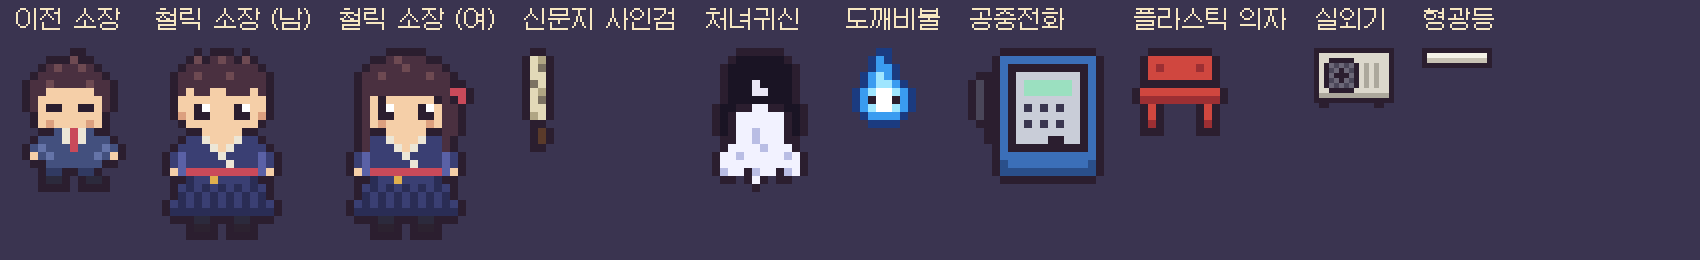
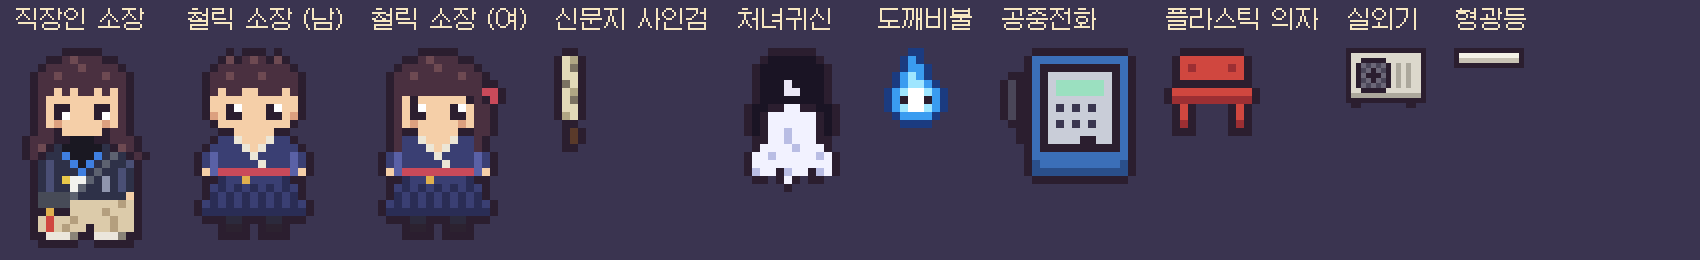
Director concept v3: office worker by day, exorcism office by night; art lab sprite and design docs
Claude-Session: https://claude.ai/code/session_014BYZNRo4yeD9gUjFc8b4p2

Changed region(s): [[0.0, 0.1846, 0.3429, 0.9538], [0.4053, 0.1846, 0.9041, 0.7385], [0.0, 0.0308, 0.9041, 0.1231]]

diff --git a/tools/artlab/lab.html b/tools/artlab/lab.html
@@ -17,7 +17,7 @@
 import { PAL, SPRITES, TILE } from './sprites.js';
 
 const W = 192, H = 112, SCALE = 5;
-const WHO = new URLSearchParams(location.search).get('who') || 'directorM';
+const WHO = new URLSearchParams(location.search).get('who') || 'directorW';
 const hex = (h) => [parseInt(h.slice(1, 3), 16), parseInt(h.slice(3, 5), 16), parseInt(h.slice(5, 7), 16)];
 
 function blit(ctx, name, x, y, flip = false) {
@@ -177,8 +177,8 @@ function scene() {
 
 function sheet() {
   const S = 8, pad = 14;
-  const list = ['director', 'directorM', 'directorF', 'sword', 'cheonyeo', 'wisp', 'payphone', 'chair', 'aircon', 'lamp'];
-  const labels = { director: '이전 소장', directorM: '철릭 소장 (남)', directorF: '철릭 소장 (여)', sword: '신문지 사인검', cheonyeo: '처녀귀신', wisp: '도깨비불', payphone: '공중전화', chair: '플라스틱 의자', aircon: '실외기', lamp: '형광등' };
+  const list = ['directorW', 'directorM', 'directorF', 'sword', 'cheonyeo', 'wisp', 'payphone', 'chair', 'aircon', 'lamp'];
+  const labels = { directorW: '직장인 소장', director: '이전 소장', directorM: '철릭 소장 (남)', directorF: '철릭 소장 (여)', sword: '신문지 사인검', cheonyeo: '처녀귀신', wisp: '도깨비불', payphone: '공중전화', chair: '플라스틱 의자', aircon: '실외기', lamp: '형광등' };
   const out = document.getElementById('sheet');
   out.width = 1700; out.height = 260;
   const o = out.getContext('2d');

diff --git a/tools/artlab/sprites.js b/tools/artlab/sprites.js
@@ -19,6 +19,10 @@ export const PAL = {
   Q: '#f4f1e6', q: '#c8c2b4',
   // director v2: cheollik (철릭) coat
   I: '#3a3f73', i: '#2a2d55', j: '#5a61a6', G: '#e0b04e', Y: '#2c2230',
+  // director v3: office worker by day (ink jacket, turtleneck, beige wide slacks, ID badge, crossbag)
+  J: '#2e3148', k: '#4a4f75', t: '#1a1822', y: '#8f95ad',
+  1: '#3f7fe0', 2: '#f2f2ee', 3: '#e8c84a', 4: '#5d6270', 5: '#474b57', 6: '#d0473f',
+  8: '#dccbaa', 9: '#b49f7e', a: '#ebe6dc', g: '#8a8478',
 };
 
 export const SPRITES = {
@@ -93,6 +97,33 @@ export const SPRITES = {
     '..OOOPPOOOPPOOO...',
     '....OYYO.OYYO.....',
     '....OOOO.OOOO.....',
+  ],
+  directorW: [
+    '......OOOOO.......',
+    '....OOHhHHHOO.....',
+    '...OHHHHhHHHHO....',
+    '..OHHhHHHHHhHHO...',
+    '..OHHHHHHHHHHHO...',
+    '..OHHSHSHHSHSHO...',
+    '..OHSSSSSSSSSHO...',
+    '..OHSOOSSSOOSHO...',
+    '..OHSOwSSSOwSHO...',
+    '..OHSsSSSSSsSHO...',
+    '..OHHOSSSSSOHHO...',
+    '.OHHHOOtttOOHHHO..',
+    '.OHhOJtttttJOhHO..',
+    '.OHOJJ1ttt1J4JOHO.',
+    '..OJkJJ1t1J4JJkO..',
+    '..OJkJJJ1J4JJkJO..',
+    '..OJkJ3224JyJkJO..',
+    '..OJkJJ24JJyJkJO..',
+    '..O55554JJJJJJSO..',
+    '..O555588888898O..',
+    '..OOGOO88889888O..',
+    '..O868898888988O..',
+    '..O868988O88988O..',
+    '..OOaaagOOaaagOO..',
+    '...OOOOO..OOOOO...',
   ],
   sword: [
     '.OO.',

diff --git a/docs/design/2-night/protagonist.md b/docs/design/2-night/protagonist.md
@@ -5,6 +5,24 @@
 ## ✅ 결정
 - **사무소장 1명 고정.** 허름한 을지로 사무소, 귀찮아하지만 수임·의뢰 해결엔 천부적인 해결사.
   - 결: 은혼 해결사, 레이겐(모브사이코), 스파이크(카우보이 비밥) 계열.
+- **투잡 (2026-10-25 결정):** 낮에는 중소기업 직장인, 퇴근 후 밤에는 부업으로 퇴마 사무소장. 그래서 퇴마는 밤에만 하고 늘 피곤하다. 낮 동안 사무소는 경리와 뚱고양이가 지킨다.
+
+## ✅ 외형 (2026-10-25 사용자 사양 + 도트용 정리)
+20대 후반~30대 초반. 만성 피로와 무던함이 밴 쿨한 직장인, 과장 없이 일을 건조하고 깔끔하게 처리하는 한량형 천재. 성별은 아직 미정(지금 사양은 중성적으로 읽힘).
+
+| 부위 | 사양 |
+|------|------|
+| 머리 | 중단발 레이어드 컷. 쇄골 라인에서 안팎으로 가볍게 뻗침, 이마·광대를 따라 떨어지는 시스루 뱅과 사이드뱅(가운데 머리는 밖으로 안 뻗침). 다크 브라운 / 내추럴 블랙 |
+| 아우터 | 노카라 라운드넥 숏 자켓, 미니멀한 실루엣, 전면 실버 메탈 버튼. 색은 순검정 대신 먹색(밤 배경에 묻히지 않게) |
+| 이너 | 블랙 터틀넥 니트 |
+| 하의 | 연베이지 핀턱 와이드 슬랙스, 발등 위로 여유 있게 떨어지는 세미와이드. 허리 핀턱 주름 = 철릭 주름 자락의 현대식 재해석 |
+| 신발 | 편한 신발(밝은 운동화) |
+| 소품 | 파란 줄 목걸이형 사원증(케이스 뒤에 부적이 삐죽), 나일론 크로스백(노트북·서류)에 노리개 |
+| 무기 | 신문지에 싼 사인검 — 퇴근길 회사원이 신문지 말아 든 모양 |
+
+사원증은 다니는 회사 것이다. 1인 사무소 소장이 퇴마 사무소 사원증도 만들어 거는 개그는 나중 선택지로 남겨 둔다.
+
+도트(키 24px)에서 반드시 남길 순서: ① 쇄골에서 뻗치는 중단발 실루엣 ② 위 먹색·아래 베이지 대비 ③ 파란 사원증 줄 + 흰 카드 ④ 크로스백 끈 대각선. 시스루 뱅·단추·핀턱은 1~2픽셀 암시로만. 상세 디테일은 대화창 초상화에서 살린다. 견본: [아트 모듈](../5-business/art.md).
 - 플레이 다양성은 직업 선택이 아니라 **퇴마 도구 교체**로 (Hades 무기 교체처럼).
 - 처음엔 **소장 혼자.** 동료는 나중에 얻고, 직접 조작하지 않고 **동행 → 호출 스킬**로 참여 (→ [party.md](../3-growth/party.md)).
 

diff --git a/HANDOFF.md b/HANDOFF.md
@@ -46,7 +46,7 @@ Old code: action prototype `d170e4b`, turn-based `0278d77`.
 ### Round 5 (2026-10-25): art direction sample
 - User wants chunky pixel art like Soul Knight / Rusty's Retirement (not dense LimeZu/Pokémon-style), worried about editing packs and conveying Seoul.
 - Built `tools/artlab/` (outside the game build): sprites as letter grids in `sprites.js`, `lab.html` renders a lit printing-house basement scene + a sprite sheet, `render.cjs` screenshots it. Galmuri pixel font (OFL) in `tools/artlab/fonts/`. Output in `docs/design/5-business/img/`, notes in `art.md`.
-- v1 feedback: pixel size and lighting OK. v2: director redesigned in a cheollik-style coat, male and female variants (`directorM`, `directorF`), 24px tall. Waiting on the user to pick, then walk/swing frames and port into `src/scenes/rift/draw/`.
+- v1 feedback: pixel size and lighting OK. v2: director redesigned in a cheollik-style coat, male and female variants (`directorM`, `directorF`), 24px tall. v3: user's own spec — the director is an office worker by day, exorcism office director by night (투잡); sprite `directorW` (bob haircut, ink jacket, ID badge with talisman, crossbag with norigae, beige wide slacks). Docs: protagonist.md (외형), world.md, hub.md (evening hub), module map one-liner, GUIDE. Next: user feedback on v3, then walk/swing frames and port into `src/scenes/rift/draw/`.
 
 ## Verified
 - Round 4: `npm run check` 45 tests pass. Playwright: new game writes a v1 save on 출동; a hand-written v1 save (money 777, solved 4) shows in the office after reload; keyboard run after the view split renders as before, no page errors.

diff --git a/GUIDE.md b/GUIDE.md
@@ -57,7 +57,7 @@ npm run dev
 
 ## 🎮 이 게임은 (결정된 것만)
 
-- **한 줄:** 허름한 을지로 옥탑방 사무소의 귀차니스트 천재 해결사가 **의뢰를 받고 → 밤에 퇴마하고 → 월세를 막는** 게임
+- **한 줄:** 낮엔 중소기업 직장인, 밤엔 허름한 을지로 옥탑방 사무소장인 귀차니스트 천재가 **의뢰를 받고 → 밤에 퇴마하고 → 월세를 막는** 게임
 - **세계관:** 무엇이 튀어나와도 이상하지 않은 마경 서울 (한국 요괴 7 : 서구 크리처 3). 단, **서울 생활감 + 시티팝 + 은혼식 만담**은 무조건 유지
 - **주인공:** 사무소장 1명 고정. 무기 A **신문지에 싼 사인검**(발도 일섬)으로 시작 → 무기 B **부적 라벨기 타카** 해금
 - **식구 (사무소 전담, 스토리로 해금):** 잔소리꾼 경리 알바생 · 뚱뚱한 고양이 영물

diff --git a/docs/design/README.md b/docs/design/README.md
@@ -2,7 +2,7 @@
 
 기획은 상위 모듈 5개로 묶고, 그 아래에 세부 모듈(문서 하나 = 기능 하나)을 둔다. 새 아이디어는 맞는 세부 모듈에 넣고, 어디에도 안 맞으면 해당 상위 폴더에 새 문서를 만들고 그 폴더 README와 이 표에 한 줄 추가한다. 문서 안 표시: ✅ 결정(바뀔 수 있음) · 🤔 논의 중.
 
-한 줄 요약: 허름한 을지로 옥탑방 사무소의 귀차니스트 천재 해결사가 의뢰를 받고, 밤에 퇴마하고, 월세를 막는 게임.
+한 줄 요약: 낮엔 중소기업 직장인, 밤엔 허름한 을지로 옥탑방 퇴마 사무소장인 귀차니스트 천재가 의뢰를 받고, 밤에 퇴마하고, 월세를 막는 게임.
 
 ```
 ☎ 수임 → 🧰 준비 → 🌙 출동(퇴마) → 💰 정산 → 🏢 경영(월세·평판·성장) → 다시 수임

diff --git a/docs/design/4-day/hub.md b/docs/design/4-day/hub.md
@@ -53,3 +53,6 @@ export const LOBBY_FEATURES: Record<LobbyFeatureId, LobbyFeatureData> = {
 ## 🤔 남은 것
 - 집주인 할머니를 넣을지
 - 재화 3종 확정 (→ [economy.md](economy.md))
+
+## ✅ 투잡 설정과 허브 (2026-10-25)
+소장이 낮에 회사에 다니므로, 허브에 들어오는 시간은 "퇴근 후 저녁"이다. 낮 동안 사무소는 경리(전화·의뢰 접수·월세)와 뚱고양이(감정)가 지키고, 소장은 저녁에 돌아와 결과를 듣고 오늘 밤 의뢰를 고른다. 회사 일(야근·회식·월급날)은 나중에 가벼운 이벤트로만 쓴다: 예컨대 야근한 날은 출동 시간이 줄거나 피곤 상태로 시작. 회사 월급은 생활비로 사라진다고 보고, 사무소 월세는 사무소가 벌어야 한다(경영 긴장 유지).

diff --git a/docs/design/1-foundation/world.md b/docs/design/1-foundation/world.md
@@ -13,7 +13,7 @@
 |------|------|
 | 장소 | **진짜 서울의 생활감.** 을지로 인쇄골목, 노포, 옥탑방, 편의점, 막차, 공중전화, 비 오는 골목 |
 | 분위기 | **서울 바이브(K-애스테틱) + 시티팝.** 노을·네온·비 반사·80~90년대 간판 색감 |
-| 주인공 | **허름한 사무소의 귀차니스트 천재 해결사.** 평소엔 대충, 진심일 때만 간지 |
+| 주인공 | **허름한 사무소의 귀차니스트 천재 해결사.** 평소엔 대충, 진심일 때만 간지. 낮엔 중소기업 직장인, 밤엔 부업으로 사무소장(투잡) |
 | 웃음 | 은혼식 만담과 생활 개그. 공포는 양념, 주재료는 "쿨함 + 생활감" |
 | 압박 | 밀린 월세·빚 ([economy.md](../4-day/economy.md)) |
 

diff --git a/docs/design/5-business/art.md b/docs/design/5-business/art.md
@@ -63,3 +63,8 @@
 ![철릭 소장 여](img/artlab-scene-directorF.png)
 
 다음: 성별·디자인 확정 → 걷기·휘두르기 프레임 → 게임에 적용.
+
+## 🧪 견본 3차: 직장인 소장 (투잡 설정)
+사용자 사양(위 [주인공 모듈](../2-night/protagonist.md#-외형-2026-10-25-사용자-사양--도트용-정리)) 그대로 도트로: 중단발 레이어드, 먹색 라운드넥 숏 자켓 + 검정 터틀넥, 파란 줄 사원증(카드 뒤 노란 부적), 크로스백(끈 대각선) + 노리개, 연베이지 와이드 슬랙스(핀턱 줄), 밝은 운동화.
+
+![직장인 소장](img/artlab-scene-directorW.png)

diff --git a/tools/artlab/README.md b/tools/artlab/README.md
@@ -15,6 +15,6 @@ python3 -m http.server 8765
 node tools/artlab/render.cjs docs/design/5-business/img
 ```
 
-장면의 주인공은 주소 뒤 `?who=directorM` 또는 `?who=directorF`로 바꾼다. 뽑으면 남·여 장면 두 장과 그림 모음 한 장이 나온다.
+장면의 주인공은 주소 뒤 `?who=directorW`(기본), `directorM`, `directorF`로 바꾼다.
 
 그림체가 확정되면 이 격자들을 게임의 `src/scenes/rift/draw/`로 옮긴다.
